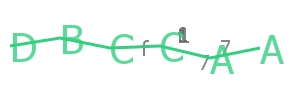
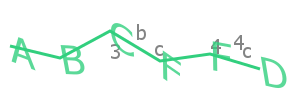
add skew rotate and colors options

Changed region(s): [[0.03, 0.21, 0.96, 0.9]]

diff --git a/src/main.js b/src/main.js
@@ -9,9 +9,18 @@ const {
     SetCaptchaOptions,
 } = require("./constants");
 const { createCanvas, loadImage, Image } = require("canvas");
-const { runInThisContext } = require('vm');
-function getRandom(n) {
-    return Math.floor(Math.random()*(n - 60)) + 30
+// canvas padding
+const PD = 30;
+/**
+ * random number in range
+ * @param {Number} start range start num
+ * @param {Number} end range end num
+ * @returns random number between start and end
+ */
+function getRandom(start, end) {
+    start = start || 0;
+    end = end || 0;
+    return Math.round(Math.random() * Math.abs(end - start)) + Math.min(start, end);
 }
 /**
  * Captcha Generator
@@ -189,7 +198,7 @@ class CaptchaGenerator {
             let coordinate = [];
             let randomWidth = widthGap*(i + 0.2);
             coordinate.push(randomWidth);
-            let randomHeight = getRandom(this.height);
+            let randomHeight = getRandom(PD, this.height - PD);
             coordinate.push(randomHeight);
             coordinates.push(coordinate);
         }
@@ -207,7 +216,7 @@ class CaptchaGenerator {
             ctx.globalAlpha = this.decoy.opacity;
             ctx.fillStyle = this.decoy.color;
             for(let i = 0; i < decoyText.length; i++) {
-                ctx.fillText(decoyText[i], getRandom(this.width), getRandom(this.height))
+                ctx.fillText(decoyText[i], getRandom(PD, this.width - PD), getRandom(PD, this.height - PD))
             }
         }
         /*Add trace line*/
@@ -228,7 +237,16 @@ class CaptchaGenerator {
             ctx.globalAlpha = this.captcha.opacity;
             ctx.fillStyle = this.captcha.color;
             for(let n = 0; n < coordinates.length; n++) {
-                ctx.fillText(this.captcha.text[n], coordinates[n][0], coordinates[n][1]);
+                ctx.save()
+                ctx.translate(coordinates[n][0], coordinates[n][1]);
+                if (this.captcha.skew)
+                    ctx.transform(1, Math.random(), getRandom(20)/100, 1, 0, 0);
+                if (this.captcha.rotate > 0)
+                    ctx.rotate(getRandom(-this.captcha.rotate, this.captcha.rotate) * Math.PI / 180);
+                if (this.captcha.colors.length >= 2)
+                    ctx.fillStyle = this.captcha.colors[getRandom(this.captcha.colors.length - 1)];
+                ctx.fillText(this.captcha.text[n], 0, 0);
+                ctx.restore();
             }
         }
         /*Return buffer*/
@@ -266,7 +284,7 @@ class CaptchaGenerator {
             let coordinate = [];
             let randomWidth = widthGap*(i + 0.2);
             coordinate.push(randomWidth);
-            let randomHeight = getRandom(this.height);
+            let randomHeight = getRandom(PD, this.height - PD);
             coordinate.push(randomHeight);
             coordinates.push(coordinate);
         }
@@ -283,7 +301,7 @@ class CaptchaGenerator {
             ctx.globalAlpha = this.decoy.opacity;
             ctx.fillStyle = this.decoy.color;
             for(let i = 0; i < decoyText.length; i++) {
-                ctx.fillText(decoyText[i], getRandom(this.width), getRandom(this.height))
+                ctx.fillText(decoyText[i], getRandom(PD, this.width - PD), getRandom(PD, this.height - PD));
             }
         }
         /*Add trace line*/
@@ -304,7 +322,16 @@ class CaptchaGenerator {
             ctx.globalAlpha = this.captcha.opacity;
             ctx.fillStyle = this.captcha.color;
             for(let n = 0; n < coordinates.length; n++) {
-                ctx.fillText(this.captcha.text[n], coordinates[n][0], coordinates[n][1]);
+                ctx.save()
+                ctx.translate(coordinates[n][0], coordinates[n][1]);
+                if (this.captcha.skew)
+                    ctx.transform(1, Math.random(), getRandom(20)/100, 1, 0, 0);
+                if (this.captcha.rotate > 0)
+                    ctx.rotate(getRandom(-this.captcha.rotate, this.captcha.rotate) * Math.PI / 180);
+                if (this.captcha.colors.length >= 2)
+                    ctx.fillStyle = this.captcha.colors[getRandom(this.captcha.colors.length - 1)];
+                ctx.fillText(this.captcha.text[n], 0, 0);
+                ctx.restore();
             }
         }
         /*Return buffer*/

diff --git a/src/constants.js b/src/constants.js
@@ -15,6 +15,9 @@ exports.SetDimensionOption = {}
  * @property {string} [text="Random UpperCase string"] Text of captcha
  * @property {hexCode} [color="#32cf7e"] Color of captcha text.
  * @property {font} [font="Sans"] Font of captcha text.
+ * @property {boolean} [skew=true] Skew captcha text.
+ * @property {array} [colors=[]] Array of hexCode will override color property.
+ * @property {number} [rotate=5] Range of angle to rotate text.
  * @property {number} [size=40] Size of captcha text.
  * @property {float} [opacity=1] Opcaity of captcha text.
  */
@@ -45,6 +48,9 @@ exports.defaultCaptchaOptions = {
     characters: 6,
     size: 40,
     font: "Sans",
+    skew: true,
+    colors: [],
+    rotate: 5,
     color: "#32cf7e",
     opacity: 0.8
 }

diff --git a/docs/constants.js.html b/docs/constants.js.html
@@ -63,6 +63,9 @@ exports.SetDimensionOption = {}
  * @property {string} [text="Random UpperCase string"] Text of captcha
  * @property {hexCode} [color="#32cf7e"] Color of captcha text.
  * @property {font} [font="Sans"] Font of captcha text.
+ * @property {boolean} [skew=true] Skew captcha text.
+ * @property {array} [colors=[]] Array of hexCode will override color property.
+ * @property {number} [rotate=5] Range of angle to rotate text.
  * @property {number} [size=40] Size of captcha text.
  * @property {float} [opacity=1] Opcaity of captcha text.
  */

diff --git a/typings/index.d.ts b/typings/index.d.ts
@@ -5,6 +5,8 @@ declare module "captcha-canvas" {
         characters?: number;
         text?: string;
         color?: string;
+        skew?: boolean;
+        colors?: string[];
         font?: string;
         size?: number;
         opacity?: number;
